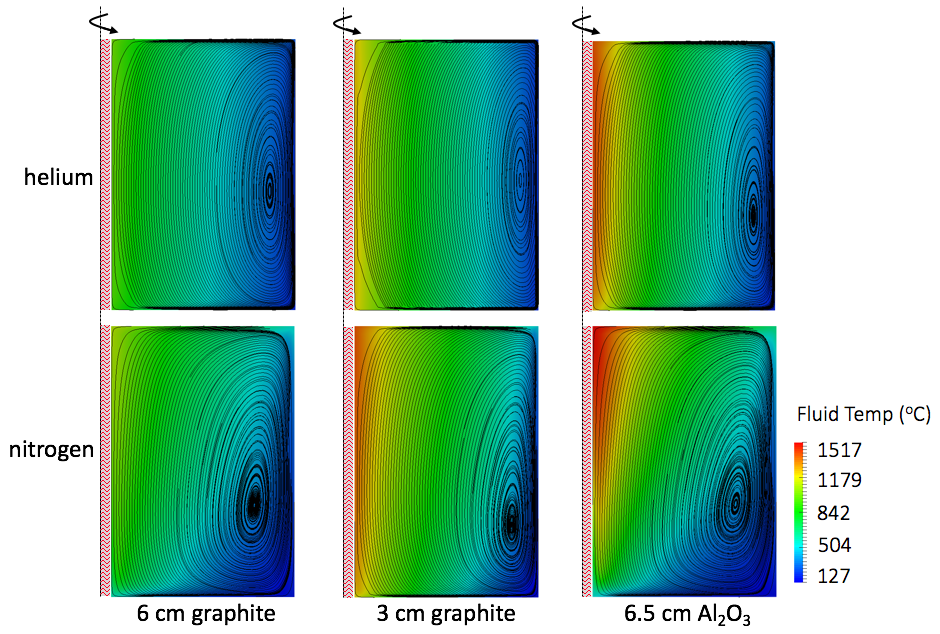
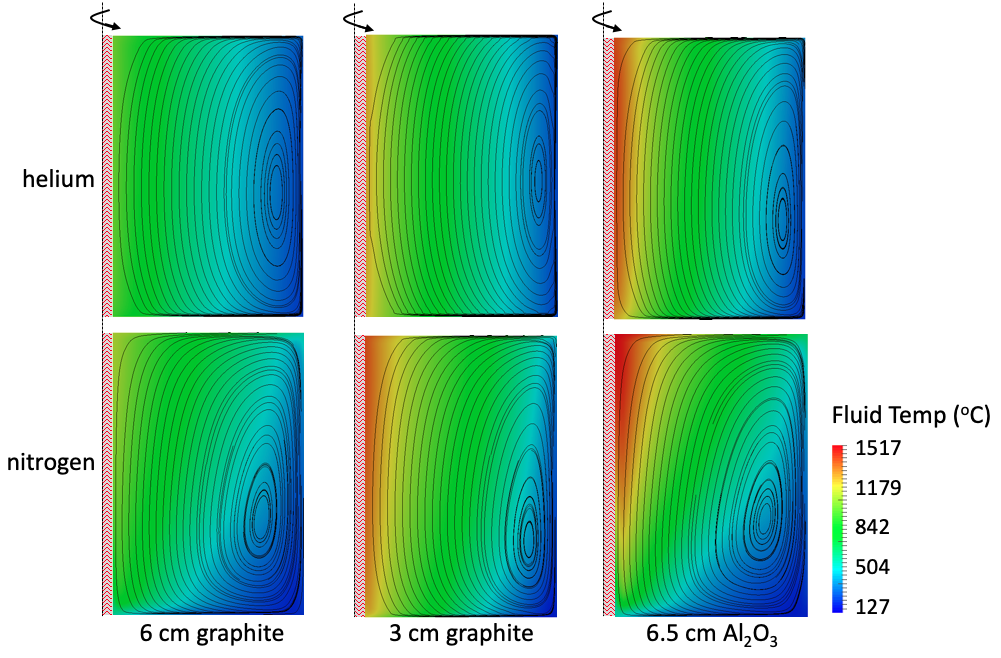
Add bottom heater figure and make prettier full-length heater figure.

diff --git a/docs/sana.tex b/docs/sana.tex
@@ -1,7 +1,7 @@
 \chapter{The SANA Experiments}
 \label{sec:sana}
 
-Power densities of gas-cooled \glspl{pbr} are typically low enough that radiation and conduction between touching pebbles, in combination with an ex-vessel water cooling system, is sufficient to remove decay heat in a depressurized \gls{lofc} by natural convection cooling. However, low power densities result in larger reactor vessels that both complicate rail transport and increase structural material costs. Economic feasibility may motivate stretching paper design concepts to higher power densities or uprating an existing reactor. Safe reactor operation requires \gls{th} models that can accurately model natural convection decay heat removal and the proximity of fuel temperatures to maximum allowable operating limits, especially when maximization of power density is a primary design objective. 
+Power densities of gas-cooled \glspl{pbr} are typically low enough that radiation and conduction between touching pebbles, in combination with an ex-vessel water cooling system, is sufficient to remove decay heat in a depressurized \gls{lofc} by natural convection cooling. However, low power densities result in larger reactor vessels that both complicate rail transport and increase structural material costs. Economic feasibility may motivate stretching paper design concepts to higher power densities or uprating an existing reactor. Safe reactor operation requires \gls{th} tools that can accurately model natural convection decay heat removal and the proximity of fuel temperatures to maximum allowable operating limits, especially when maximization of power density is a primary design objective. 
 
 % TODO: put this in the introduction section when describing the motivation for this section
 %Validation of a computational model for conduction cool-down conditions is necessary to establish additional margins associated with the predictive nature of modeling tools for decay heat removal.
@@ -19,7 +19,7 @@ In Section \ref{sec:sensitivity}, macroscale closures are individually varied fr
 \section{The SANA Facility}
 \label{sec:experimental}
 
-The SANA facility consists of a cylindrical steel vessel containing about 9500 non-fueled pebbles heated by electrical resistance heaters in a variety of configurations in both steady and transient conditions \cite{SANA}. A depiction of the facility in a full-length, single-heater configuration is shown in Fig.\ \ref{fig:SANA_core}. Insulation on the bottom and top of the bed limits axial heat loss. The pebble surface temperature is measured throughout the bed with thermocouples at five different elevations, indicated as ``bottom,'' ``near bottom,'' ``middle,'' ``near top,'' and ``top'' in Fig.\ \ref{fig:SANA_core}. The precise axial coordinate of these measurement planes varied from test to test, and the scale shown in Fig.\ \ref{fig:SANA_core} is approximate. Most experiments involved a single centrally-located heater in an axisymmetric configuration, though several experiments placed multiple heaters throughout the bed so that the power distribution was no longer axisymmetric; these cases are not considered here.
+The SANA facility consists of a closed cylindrical steel vessel containing about 9500 non-fueled pebbles heated by electrical resistance heaters in a variety of configurations in both steady and transient conditions \cite{SANA}. A depiction of the facility in a full-length, single-heater configuration is shown in Fig.\ \ref{fig:SANA_core}. Insulation on the bottom and top of the bed limits axial heat loss. The pebble surface temperature is measured throughout the bed with thermocouples at five different elevations, indicated as ``bottom,'' ``near bottom,'' ``middle,'' ``near top,'' and ``top'' in Fig.\ \ref{fig:SANA_core}. The precise axial coordinate of these measurement planes varied from test to test, and the scale shown in Fig.\ \ref{fig:SANA_core} is approximate. Most experiments involved a single centrally-located heater in an axisymmetric configuration, though several experiments placed multiple heaters throughout the bed so that the power distribution was no longer axisymmetric; these cases are not considered here.
 
 \begin{figure}[h!]
 \centering
@@ -124,14 +124,25 @@ A total of nearly 1300 solid temperature measurements were made across the stead
 
 A natural convection flow is established as fluid buoyantly rises near the heater surface and cools near the vessel outer surface. The insulation on the bottom and top of the bed induces primarily radial temperature gradients. The low thermal conductivity of nitrogen results in more significant convective transport than in helium, which manifests as larger axial fluid temperature gradients and a recirculation vortex located closer to the bottom of the bed. The thermal conductivity of the pebbles is directly related to the maximum temperature in the bed\mdash from left to right, the pebble thermal conductivity decreases. Experiments with aluminum oxide pebbles and nitrogen coolant have the greatest convective heat transport, while experiments with 6 \si{\centi\meter} graphite pebbles and helium coolant have the greatest diffusive heat transport. 
 
-Moving to the solid temperature predictions, similar trends in the solid temperature with pebble and coolant thermal properties will be highlighted with each case. In presenting the validation data, all experimental results are shown as discrete points and Pronghorn predictions are shown as solid lines (---). When available, Flownex results are shown as dashed lines (- -) and GAMMA results are shown as dotted lines ($\cdots$). Measurements were taken at the five axial elevations shown in Fig.\ \ref{fig:SANA_core}, but only three of these elevations are plotted to simplify data presentation.
+\begin{figure}[h!]
+\centering
+\centerline{
+\includegraphics[height=0.55\linewidth]{figs/sana_30kW_vel.png}}
+\caption{Pronghorn predicted fluid temperature and velocity streamlines for a full-length heater at 30 \si{\kilo\watt} for helium (top row) and nitrogen (bottom row) coolant for the three pebble types.}
+\label{fig:streamlines2}
+\end{figure}
+
+To provide physical insight for the partial-length heater experiments, Fig.\ \ref{fig:streamlines1} shows Pronghorn predictions of fluid temperature and velocity streamlines for the eight experiments with a half-length heater in the bottom of the bed and 6 \si{\centi\meter} graphite pebbles. The top and bottom rows show predictions for helium and nitrogen coolant, respectively, while each column corresponds to a unique power level. The higher the heater power, the further upward the recirculation vortex moves for the helium tests, as energy transfer is primarily diffusive and in the radial direction. For nitrogen, higher heater powers result in stronger fluid acceleration in the upwards direction, pushing the recirculation vortex further downwards as the fluid changes directions along the bottom and right walls of the vessel. Both of these observations are related to the stronger convective transport in nitrogen.
 
 \begin{figure}[h!]
 \centering
-\includegraphics[height=0.65\linewidth]{figs/sana_30kW_vel.png}
-\caption{Pronghorn predicted fluid temperature and velocity streamlines for a 30 \si{\kilo\watt} heater power for helium (top row) and nitrogen (bottom row) coolant for the three pebble types.}
-\label{fig:streamlines2}
+\centerline{
+\includegraphics[height=0.6\linewidth]{figs/sana_bottom_vel.png}}
+\caption{Pronghorn predicted fluid temperature and velocity streamlines for a partial-length heater in the bottom of the bed for helium (top row) and nitrogen (bottom row) for 6 \si{\centi\meter} graphite pebbles for four power levels.}
+\label{fig:streamlines1}
 \end{figure}
+
+Moving to the solid temperature predictions, similar trends in the solid temperature with pebble and coolant thermal properties will be highlighted with each case. In presenting the validation data, all experimental results are shown as discrete points and Pronghorn predictions are shown as solid lines (---). When available, Flownex results are shown as dashed lines (- -) and GAMMA results are shown as dotted lines ($\cdots$). Measurements were taken at the five axial elevations shown in Fig.\ \ref{fig:SANA_core}, but only three of these elevations are plotted to simplify data presentation.
 
 Figs. \ref{fig:helium_long} and \ref{fig:nitrogen_long} show Pronghorn and Flownex solid temperature predictions for heater powers of 5 and 35 \si{\kilo\watt} and 6 \si{\centi\meter} graphite pebbles with helium and nitrogen coolant, respectively. The 5 k\si{\kilo\watt} cases in Figs. \ref{fig:helium_longa} and \ref{fig:nitrogen_longa} are shown on the same temperature scale of 0 to 500\si{\celsius}, while the 35 \si{\kilo\watt} cases in Figs. \ref{fig:helium_longb} and \ref{fig:nitrogen_longb} are shown on the same temperature scale of 0 to 1200\si{\celsius}. Similar to the fluid temperature shown in Fig.\ \ref{fig:streamlines2}, the greater diffusive transport in helium results in smaller axial solid temperature gradients and a lower maximum temperature as compared to nitrogen. 
 

diff --git a/docs/physics.tex b/docs/physics.tex
@@ -1121,7 +1121,7 @@ The effective fluid thermal conductivity \(\kappa_f\) represents thermal dispers
 \subsubsection{Effective Solid Thermal Conductivity}
 \label{sec:KappaS}
 
-The effective solid thermal conductivity \(\kappa_s\) represents thermal dispersion in the solid phase. Models for \(\kappa_s\) generally consider three different effects\mdash 1)~conduction in a pebble and radiation between pebbles across a transparent fluid, which is represented by \(\kappa_\text{radiation}\); 2)~conduction in a pebble and conduction in the fluid between pebbles, which is represented by \(\kappa_\textrm{fluid conduction}\); and 3)~conduction in a pebble and conduction between pebbles at contact areas, which is represented by \(\kappa_\textrm{solid conduction}\).
+The effective solid thermal conductivity \(\kappa_s\) represents three effective heat transfer mechanisms in the solid phase. Models for \(\kappa_s\) generally consider three different effects\mdash 1)~conduction in a pebble and radiation between pebbles across a transparent fluid, which is represented by \(\kappa_\text{radiation}\); 2)~conduction in a pebble and conduction in the fluid between pebbles, which is represented by \(\kappa_\textrm{fluid conduction}\); and 3)~conduction in a pebble and conduction between pebbles at contact areas, which is represented by \(\kappa_\textrm{solid conduction}\).
 
 These three heat transfer mechanisms are measured by assuming the fluid is stagnant to avoid ``double-counting'' the convection effects represented by the convection kernels in Eqs. \eqref{eq:PEnergy} and \eqref{eq:PEnergy2}. In \glspl{loca} or other conditions where convective cooling capabilities are severely degraded, \(\kappa_s\) represents the primary heat transfer removal mechanisms. 
 

diff --git a/docs/pronghorn.tex b/docs/pronghorn.tex
@@ -620,7 +620,7 @@ Fig.\ \ref{fig:multiscale_pbr} shows an illustration of the length scale couplin
 	\item The first-tier sub-applications calculate averaged power densities in each element of the mesoscale mesh.
 	\item The first-tier sub-applications transfer the averaged power densities as a source term to a microscale sub-application in each element.
 	\item The second-tier sub-applications solve the microscale models.
-	\item The first-tier sub-applications retrieve the microscale solution in each element of the mesoscale mesh.
+	\item The first-tier sub-applications retrieve the microscale solution in each element of the mesoscale mesh and apply the continuity in heat flux and temperature \gls{bc} with the summation in Eq. \eqref{eq:MultiscaleSolution}.
 	\end{enumerate}
 \end{enumerate}
 
